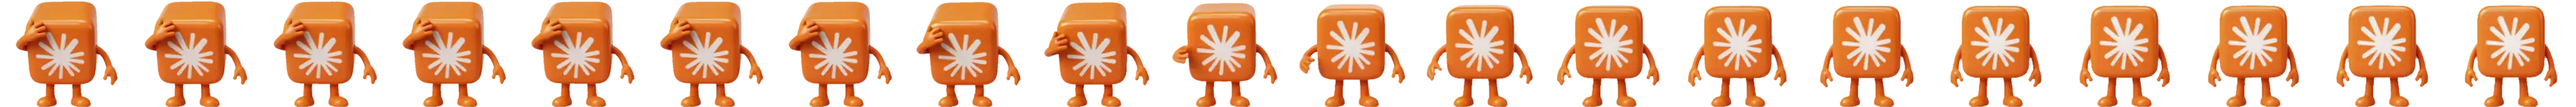
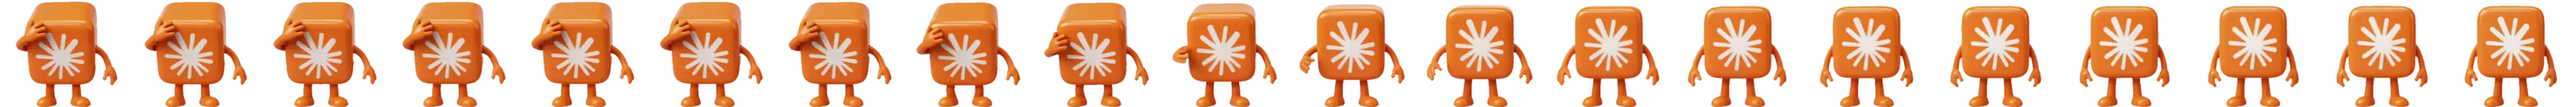
Release 1.0.0: six pets, cut out by Apple Vision (#3)
* Rename the fat ninja pet to V2 Ninja

* Trim the white halo off the pet sprites

The clip frames are keyed from white-background video, and their outer
ring of pixels kept the white they were blended with, so every pet showed
a light outline on a dark pane. keyWhite erodes the outline at clip size,
which is only about a quarter pixel once the frame is shrunk to 192 wide.

- Every clip frame of both pets, and the wizard's still, has its outline
  pulled in by 1px (alpha erosion per frame, re-encoded at the same
  cwebp settings). Edge brightness drops from ~120 to ~70, in line with
  the pixels inside it. The ninja's still had no halo and is unchanged.
- make-pet.ts now does the same 1px trim at the final frame size, for
  clips and for stills keyed from a white background, so new pets come
  out clean. Checked by rebuilding the wizard's waving clip and still
  from the original Higgsfield files.

* Release 0.3.1: sprites without the white halo

* Point the default pet at v2-ninja after the rename

DEFAULT_PET still named fat-ninja, which the rename removed, so a fresh
install (or anyone whose saved pet no longer loads) fell back to a pet
that doesn't exist and the pane failed to load. The tests mocked a
fat-ninja folder, so they passed anyway; they now use v2-ninja too.

* Fix holes and drift in make-pet's keying

- keyWhite painted the flooded background black and then took every
  non-black pixel as the pet, so any pure-black pixel of the pet itself
[…]

diff --git a/scripts/make-pet.ts b/scripts/make-pet.ts
@@ -10,11 +10,12 @@
 //
 //   bun make-pet.ts clip <pet folder> <review|waving|jumping|failed|working> <clip.mp4>
 //     Turns a square clip made from start-end.png (white background, static
-//     camera) into that clip's pieces. It keys out the white, cancels the
+//     camera) into that clip's pieces. It cuts the pet out (Apple Vision on
+//     macOS, by mask.swift; elsewhere by keying out the white), cancels the
 //     model's slow camera drift by pinning the bottom of the figure (a real
 //     hop stays in), samples CLIP_FPS frames a second at full size and cuts
 //     them into as few pieces as fit the pane's size cap, which the pane
-//     plays in turn.
+//     plays in turn. --keep-white only matters when keying the white.
 import { existsSync, mkdirSync, mkdtempSync, readdirSync, rmSync, statSync, writeFileSync } from 'node:fs'
 import { tmpdir } from 'node:os'
 import { basename, join } from 'node:path'
@@ -43,13 +44,19 @@ const STILL_MARGIN = 4
 // a little, and at 97% a narrow gap (staff and robe) breaks into specks too
 // small to count, so HOLE_WHITE sits at 93% and HOLE_AREA at 120. Eyes and
 // highlights stay, as they aren't that white. A pet with a white marking
-// that white passes KEEP_WHITE and keeps everything inside its outline:
-// Clawde's starburst reaches 93-97% in a clip, as white as a gap between
-// its legs, so no lightness or size tells the two apart.
+// that white passes KEEP_WHITE: Clawde's starburst reaches 93-97% in a
+// clip, as white as a gap between its arm and its body, so no lightness or
+// size tells the two apart, but where they are does. A marking sits inside
+// the body and a gap outside it, so with KEEP_WHITE a hole inside the body
+// stays. The body is the pet's non-white part opened by a disk of
+// BODY_RADIUS at HOLE_SIZE, which drops the thin arms, legs and swords and
+// keeps the trunk (Clawde's cube, the ninja's torso and laptop), with its
+// own holes filled, which keeps what's inside it.
 const FLOOD_FUZZ = '8%'
 const HOLE_WHITE = '93%'
 const HOLE_AREA = 120
 const HOLE_SIZE = 640
+const BODY_RADIUS = 12
 const KEEP_WHITE = '--keep-white'
 // Drift: the figure's bottom band, from a share of its height above its
 // bottom to FEET_BELOW of the clip below it. Its place is smoothed over
@@ -115,28 +122,110 @@ const boundsOf = (file: string, crop = ''): Rect | undefined => {
 // Background to transparent: the white reached by flooding in from the four
 // corners, plus any pure-white gap inside the outline larger than a hole of
 // HOLE_AREA (between an arm and the body). Light fur and small white details
-// such as eyes stay. With keepWhite the holes mask is all white, so nothing
-// inside the outline goes. The flood paints the background transparent and
-// its alpha is the mask: painting it black instead would also count every
-// pure-black pixel of the pet (the ninja's hood) as background.
+// such as eyes stay. With keepWhite a hole inside the body (see KEEP_WHITE)
+// stays. The flood paints the background transparent and its alpha is the
+// mask: painting it black instead would also count every pure-black pixel
+// of the pet (the ninja's hood) as background.
+//
+// The images, by index: 0 the frame, 1 the flood's mask (white is the pet),
+// 2 the holes (black is a hole); with keepWhite, 3 the opened body and 4
+// the holes in it, lightened onto 2 so a hole inside the body stays.
 const keyWhite = (input: string, output: string, size: number, keepWhite: boolean) => {
   const area = String(Math.round(HOLE_AREA * (size / HOLE_SIZE) ** SQUARED))
+  const radius = Math.max(1, Math.round(BODY_RADIUS * (size / HOLE_SIZE)))
   const far = size - 1
   const floods = [`0,0`, `${far},0`, `0,${far}`, `${far},${far}`].flatMap(corner => ['-draw', `color ${corner} floodfill`])
-  const holes = keepWhite
-    ? ['(', '-clone', '0', '-fill', 'white', '-colorize', String(PERCENT), '-colorspace', 'gray', ')']
-    : [
-        '(', '-clone', '0', '-colorspace', 'gray', '-threshold', HOLE_WHITE,
-        '-define', `connected-components:area-threshold=${area}`, '-define', 'connected-components:mean-color=true',
-        '-connected-components', '8', '-negate', ')',
+  const holes = [
+    '(', '-clone', '0', '-colorspace', 'gray', '-threshold', HOLE_WHITE,
+    '-define', `connected-components:area-threshold=${area}`, '-define', 'connected-components:mean-color=true',
+    '-connected-components', '8', '-negate', ')',
+  ]
+  const body = keepWhite
+    ? [
+        '(', '-clone', '0', '-colorspace', 'gray', '-threshold', HOLE_WHITE, '-negate', '-clone', '1',
+        '-compose', 'multiply', '-composite', '-morphology', 'Open', `Disk:${radius}`, ')',
+        '(', '-clone', '3', '-negate', '-bordercolor', 'white', '-border', '1',
+        '-fill', 'black', '-draw', 'color 0,0 floodfill', '-shave', '1x1', ')',
+        '(', '-clone', '2-4', '-background', 'black', '-compose', 'lighten', '-flatten', ')',
+        '-delete', '2-4',
       ]
+    : []
   run([
     'magick', input, '-alpha', 'off',
     '(', '+clone', '-alpha', 'set', '-fuzz', FLOOD_FUZZ, '-fill', 'none', ...floods, '-fuzz', '0', '-alpha', 'extract', ')',
     ...holes,
+    ...body,
     '(', '-clone', '1,2', '-compose', 'multiply', '-composite', '-morphology', 'Erode', 'Disk:1', '-blur', '0x0.7', ')',
     '-delete', '1,2', '-alpha', 'off', '-compose', 'CopyOpacity', '-composite', output,
   ])
+}
+
+// Apple Vision's cut-out (mask.swift, macOS): a mask in `masks` for every
+// PNG in `frames`. It tells a white marking from a gap and leaves out the
+// floor shadow, which keying the white can't. False, with the reason, where
+// it can't run (another system, no Swift, no Neural Engine), so the caller
+// keys the white instead; PET_KEY=white asks for that.
+const MASKER = join(import.meta.dir, 'mask.swift')
+const visionMasks = (frames: string, masks: string): boolean => {
+  if (process.platform !== 'darwin' || process.env.PET_KEY === 'white') {
+    return false
+  }
+  try {
+    const done = Bun.spawnSync(['swift', MASKER, frames, masks], { stderr: 'pipe' })
+    if (done.exitCode === 0) {
+      return true
+    }
+    console.log(`Vision couldn't cut the pet out (${done.stderr.toString().trim().split('\n').at(-1) ?? ''}); keying the white instead`)
+  } catch (error) {
+    console.log(`Vision couldn't cut the pet out (${String(error)}); keying the white instead`)
+  }
+  return false
+}
+
+// `frame` with `mask` as its alpha, less any white gap Vision kept: white
+// (HOLE_WHITE) the background can't reach that's outside the body (see
+// KEEP_WHITE), as between the ninja's thumb and his sword. White inside the
+// body (a starburst, a beard) and white at the edge (a glowing staff tip)
+// stay. With keepWhite (a pet with a white marking, such as Clawde's
+// starburst, which can come too close to its edge for the body to hold it)
+// Vision's mask is used as it is. One magick call a step, through files in
+// `scratch`: the same steps as one command, with groups and clones, came
+// out wrong.
+const applyMask = (frame: string, mask: string, output: string, size: number, scratch: string, keepWhite: boolean) => {
+  if (keepWhite) {
+    run(['magick', frame, '-alpha', 'off', mask, '-compose', 'CopyOpacity', '-composite', output])
+    return
+  }
+  const radius = Math.max(1, Math.round(BODY_RADIUS * (size / HOLE_SIZE)))
+  const area = String(Math.round(HOLE_AREA * (size / HOLE_SIZE) ** SQUARED))
+  const far = size - 1
+  const corners = [`0,0`, `${far},0`, `0,${far}`, `${far},${far}`].flatMap(corner => ['-draw', `color ${corner} floodfill`])
+  const file = (name: string) => join(scratch, `${name}.png`)
+  mkdirSync(scratch, { recursive: true })
+  run(['magick', mask, '-colorspace', 'gray', '-threshold', '50%', file('opaque')])
+  run(['magick', frame, '-alpha', 'off', '-colorspace', 'gray', '-threshold', HOLE_WHITE, file('white')])
+  run(['magick', file('opaque'), file('white'), '-compose', 'multiply', '-composite', file('opaque-white')])
+  // The opaque white the background can't reach, flooding through the
+  // transparent and the white from the corners.
+  run([
+    'magick', file('opaque'), '-negate', file('opaque-white'), '-compose', 'lighten', '-composite',
+    '-fill', 'black', ...corners, file('opaque-white'), '-compose', 'multiply', '-composite', file('enclosed'),
+  ])
+  // Everything but the body: the non-white part opened, with its holes filled.
+  run(['magick', file('white'), '-negate', file('opaque'), '-compose', 'multiply', '-composite', '-morphology', 'Open', `Disk:${radius}`, file('opened')])
+  run([
+    'magick', file('opened'), '-negate', '-bordercolor', 'white', '-border', '1', '-fill', 'black', '-draw', 'color 0,0 floodfill', '-shave', '1x1',
+    file('opened'), '-compose', 'lighten', '-composite', '-negate', file('not-body'),
+  ])
+  // What stays: all but enclosed white outside the body, in patches bigger
+  // than a hole.
+  run([
+    'magick', file('enclosed'), file('not-body'), '-compose', 'multiply', '-composite',
+    '-define', `connected-components:area-threshold=${area}`, '-define', 'connected-components:mean-color=true',
+    '-connected-components', '8', '-negate', file('stays'),
+  ])
+  run(['magick', mask, '-colorspace', 'gray', file('stays'), '-compose', 'multiply', '-composite', file('alpha')])
+  run(['magick', frame, '-alpha', 'off', file('alpha'), '-compose', 'CopyOpacity', '-composite', output])
 }
 
 // ImageMagick arguments that pull a cut-out's outline in by one pixel at its
@@ -155,7 +244,16 @@ const makeStill = (picture: string, petDir: string, keepWhite: boolean) => {
   if (hasAlpha) {
     run(['magick', picture, cut])
   } else {
-    keyWhite(picture, cut, Number(run(['magick', picture, '-format', '%w', 'info:'])), keepWhite)
+    const frames = join(work, 'frames')
+    const masks = join(work, 'masks')
+    mkdirSync(frames)
+    const flat = join(frames, 'picture.png')
+    run(['magick', picture, '-alpha', 'off', flat])
+    if (visionMasks(frames, masks)) {
+      applyMask(flat, join(masks, 'picture.png'), cut, Number(run(['magick', flat, '-format', '%w', 'info:'])), join(work, 'scratch'), keepWhite)
+    } else {
+      keyWhite(picture, cut, Number(run(['magick', picture, '-format', '%w', 'info:'])), keepWhite)
+    }
   }
   // Trimmed, fitted inside the margin, standing on the frame's bottom, centred.
   const fit = `${FRAME_WIDTH - BOTH_SIDES * STILL_MARGIN}x${FRAME_HEIGHT - BOTH_SIDES * STILL_MARGIN}`
@@ -256,7 +354,14 @@ const makeClip = (petDir: string, clipName: string, clip: string, keepWhite: boo
   const rate = run(['ffprobe', '-v', 'error', '-select_streams', 'v:0', '-show_entries', 'stream=r_frame_rate', '-of', 'csv=p=0', clip])
   const [num = 1, den = 1] = rate.split('/').map(Number)
   const names = readdirSync(full).filter(file => file.endsWith('.png')).sort()
-  names.map(name => keyWhite(join(full, name), join(keyed, name), size, keepWhite))
+  const masks = join(work, 'masks')
+  const byVision = visionMasks(full, masks)
+  console.log(`${reaction}: cut out by ${byVision ? 'Apple Vision' : 'keying the white'}`)
+  names.map(name =>
+    byVision
+      ? applyMask(join(full, name), join(masks, name), join(keyed, name), size, join(work, 'scratch'), keepWhite)
+      : keyWhite(join(full, name), join(keyed, name), size, keepWhite),
+  )
 
   // The feet band comes from the first frame, where the pet is in its still pose.
   const first = boundsOf(join(keyed, names[0] ?? ''))

diff --git a/scripts/mask.swift b/scripts/mask.swift
@@ -1,0 +1,54 @@
+// Cuts the pet out of each frame with Apple Vision's subject lifting (the
+// cut-out you get by long-pressing a photo), for make-pet.ts on macOS.
+//
+//   swift mask.swift <frames folder> <masks folder>
+//
+// For every PNG in <frames folder>, writes a grayscale PNG of the same name
+// and size to <masks folder>: white for the pet, black for the rest. Unlike
+// keying out the white, it knows a white marking from a gap and leaves out
+// the floor shadow. It runs on the Neural Engine. Exits non-zero if any frame
+// failed, so make-pet.ts can fall back to keying the white.
+import CoreImage
+import Foundation
+import ImageIO
+import Vision
+
+let args = CommandLine.arguments
+guard args.count == 3 else {
+  FileHandle.standardError.write(Data("usage: swift mask.swift <frames folder> <masks folder>\n".utf8))
+  exit(2)
+}
+let input = URL(fileURLWithPath: args[1])
+let output = URL(fileURLWithPath: args[2])
+try FileManager.default.createDirectory(at: output, withIntermediateDirectories: true)
+let context = CIContext()
+let gray = CGColorSpaceCreateDeviceGray()
+let names = try FileManager.default.contentsOfDirectory(atPath: input.path).filter { $0.hasSuffix(".png") }.sorted()
+var failed = 0
+for name in names {
+  let target = output.appendingPathComponent(name)
+  guard let source = CGImageSourceCreateWithURL(input.appendingPathComponent(name) as CFURL, nil),
+    let image = CGImageSourceCreateImageAtIndex(source, 0, nil)
+  else {
+    FileHandle.standardError.write(Data("\(name): unreadable\n".utf8))
+    failed += 1
+    continue
+  }
+  let request = VNGenerateForegroundInstanceMaskRequest()
+  let handler = VNImageRequestHandler(cgImage: image)
+  do {
+    try handler.perform([request])
+    if let result = request.results?.first {
+      let buffer = try result.generateScaledMaskForImage(forInstances: result.allInstances, from: handler)
+      try context.writePNGRepresentation(of: CIImage(cvPixelBuffer: buffer), to: target, format: .L8, colorSpace: gray)
+    } else {
+      // No subject in the frame: nothing of it to keep.
+      let none = CIImage(color: .black).cropped(to: CGRect(x: 0, y: 0, width: image.width, height: image.height))
+      try context.writePNGRepresentation(of: none, to: target, format: .L8, colorSpace: gray)
+    }
+  } catch {
+    FileHandle.standardError.write(Data("\(name): \(error.localizedDescription)\n".utf8))
+    failed += 1
+  }
+}
+exit(failed == 0 ? 0 : 1)

diff --git a/README.md b/README.md
@@ -1,12 +1,15 @@
 # Desk pets
 
-An animated pet in a pane beside the Claude Code chat. It works while Claude works, reacts to what's going on, and calls in a helper for every subagent. It comes with three pets, Clawde by default, and you can make your own from any picture.
+An animated pet in a pane beside the Claude Code chat. It works while Claude works, reacts to what's going on, and calls in a helper for every subagent. It comes with six pets, Clawde by default, and you can make your own from any picture.
 
 | Pet | Id | Works by |
 | --- | --- | --- |
 | 🟧 Clawde (default) | `clawde` | standing and getting stuck in |
 | 🥷 V2 Ninja | `v2-ninja` | sitting with his laptop, hands a typing blur |
 | 🧙 Grumpy wizard | `grumpy-wizard` | standing and grudgingly casting spells |
+| 🦆 Rubber duck | `rubber-duck` | listening while you talk it through, bobbing as it thinks |
+| 🐈 Ginger cat | `ginger-cat` | sitting with its laptop, paws on the keys |
+| 🐕 Golden pup | `golden-pup` | standing on its hind legs, tail wagging |
 
 On the desktop app, VS Code and mobile the pet is animated. The terminal shows a one-line status instead.
 
@@ -39,7 +42,7 @@ claude plugin install desk-pets --marketplace V2-VanishsVault/desk-pets
 
 In the Claude desktop app, where `/plugin` doesn't run: click + next to the prompt box, then Plugins, Add marketplace with `V2-VanishsVault/desk-pets`, then Add plugin.
 
-Then type `/pet` to show the pane, and `/pet clawde`, `/pet v2-ninja` or `/pet grumpy-wizard` to pick a pet.
+Then type `/pet` to show the pane, and `/pet <id>` (such as `/pet rubber-duck`) to pick a pet. `/pet list` shows them all.
 
 ## Commands
 
@@ -82,7 +85,7 @@ bun scripts/make-pet.ts still <picture> <pet folder>
 bun scripts/make-pet.ts clip <pet folder> <clip> <clip.mp4>
 ```
 
-Add `--keep-white` for a pet with white markings inside its outline (Clawde's starburst), so the keying doesn't punch holes in them.
+On macOS the script cuts the pet out with Apple Vision (`scripts/mask.swift`, run with Xcode's `swift`), which leaves out gaps and floor shadows. Elsewhere it keys out the white background. Add `--keep-white` for a pet with white markings inside its outline (Clawde's starburst), so the cleanup of white gaps leaves them alone.
 
 A typing pet lists `hands` in `pet.json`. These are soft ellipses around each hand in still-frame pixels, and the pane taps them in turn while Claude works. A pet without hands plays its `working` clip instead.
 

diff --git a/skills/create-pet/SKILL.md b/skills/create-pet/SKILL.md
@@ -76,7 +76,7 @@ bun "${CLAUDE_PLUGIN_ROOT}/scripts/make-pet.ts" clip ~/.claude/pets/<id> <clip> 
 
 The script does the following:
 
-- Keys out the white.
+- Cuts the pet out. On macOS that's Apple Vision's subject cut-out (`scripts/mask.swift`, which runs with the `swift` that comes with Xcode or its command-line tools), which leaves out gaps and the floor shadow. Elsewhere, or if Vision fails, it keys out the white instead and says so.
 - Cancels the video model's camera drift.
 - Samples 10 frames a second at full size.
 - Cuts the frames into as few pieces as fit the pane's size cap, usually three. The pane plays the pieces in turn.
@@ -84,7 +84,7 @@ The script does the following:
 
 Look at a few frames of the result. Regenerate a clip whose first frame isn't the still (the model ignored the start image), or one that has white specks or cut-off effects.
 
-If the pet has a white marking inside its outline, such as a white logo, belly or patch, and that marking comes out with holes, run the clip again with `--keep-white` at the end. The script then removes only the white reached from the frame's corners and keeps everything inside the outline. A gap the background can't reach, such as between legs held together over a floor shadow, then stays white. If that shows, regenerate the clip with a pose that keeps the legs apart.
+If the pet has a white marking inside its outline, such as a white logo, belly or patch, and that marking comes out with holes, run the clip again with `--keep-white` at the end. The script then keeps all the white inside the pet's outline. Without it, the script clears white that the background can't reach outside the pet's body, such as a gap between a hand and a sword. So with `--keep-white`, check the frames for a gap that kept some white, and regenerate that clip with a pose that keeps the limbs apart if one shows.
 
 ## 6. Show it
 
